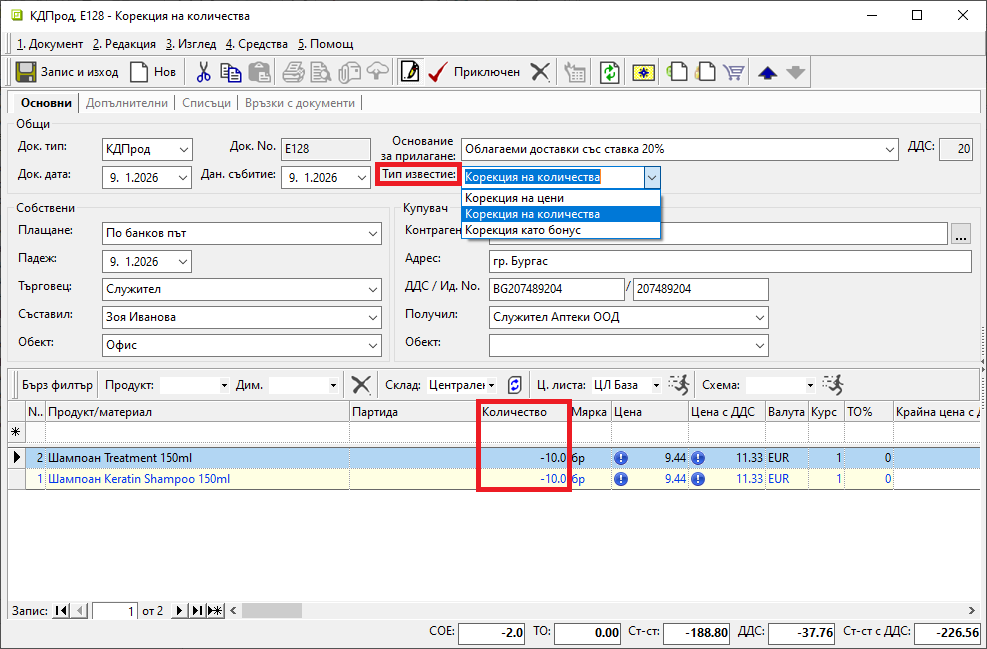
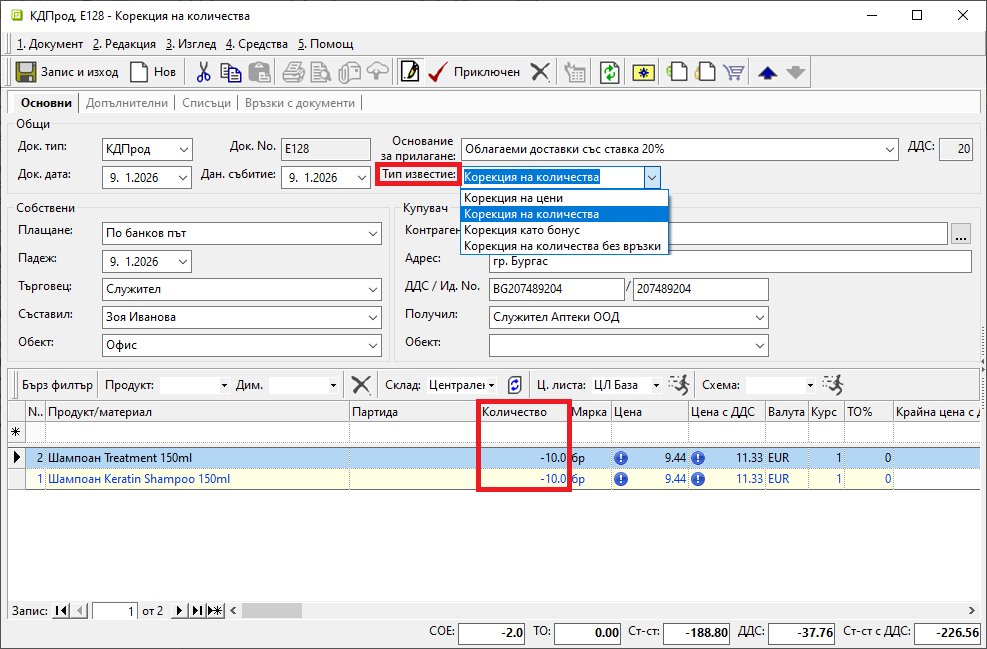
Редактиране - Кредитни док. (частично)

Changed region(s): [[0.4559, 0.2465, 0.6991, 0.4006]]

diff --git a/guide/erp/002-docs/001-trade-system/001-orders-sales-purchase-documents/007-credit-note.md b/guide/erp/002-docs/001-trade-system/001-orders-sales-purchase-documents/007-credit-note.md
@@ -10,53 +10,76 @@
 
 ## **Въведение**
 
-Системата поддържа лесна обработка на кредитни документи при връщане на стока, намаление на цени и бонуси за натрупан оборот.  
+Системата поддържа лесна обработка на кредитни документи при връщане на стока, намаление на цени или други корекции.  
 
 > Процедурата по регистриране на кредитни документи е аналогична за покупки и продажби.  
 
-Различните причини за създаване на документ за корекция се указват чрез тип на известието.  
-При кредитните документи от тип *Корекция на цени* и *Корекция на количества* се изисква връзка с вече издадена продажба/ фактура. Системата разполага с инструмент за изграждане на такава. Чрез него се свързват вътрешнофирмените документи **Продажба**-*Документ за продажба* и **КДПрод**-*Кредитен документ за продажба*. На същия принцип се създава връзката и на данъчните документи **Фактура**-*Фактура за продажба* с **КИПрод**-*Кредитно известие за продажба*.  
+Различните причини за създаване на документ за корекция се указват чрез реквизит **Тип известие**.  
+При типове *Корекция на цени* и *Корекция на количества* се изисква всеки ред на кредитния документ да бъде изцяло разпределен във връзки с продажби/покупки. Системата разполага с инструмент за създаване на връзките. Чрез него се свързват вътрешнофирмените документи:  
+- **Продажба**-*Документ за продажба* с **КДПрод**-*Кредитен документ за продажба*;  
+- **Покупка**-*Документ за покупка* с **КДПок**-*Кредитен документ за покупка*.  
+    
+На следващ етап се създават и връзките между данъчните документи:  
+- **Фактура**-*Фактура за продажба* с **КИПрод**-*Кредитно известие за продажба*;  
+- **ФПок**-*Фактура за покупка* с **КИПок**-*Кредитно известие за покупка*;    
 
-При тип документ [*Корекция като бонус*](../../../005-how-to/002-correction-doc.md#кд-без-връзка-с-продажба) връзка с предхождаща го продажба/фактура не се изисква. Този тип корекции се въвеждат ръчно.  
+При тип документ [*Корекция като бонус*](../../../005-how-to/002-correction-doc.md#кд-без-връзка-с-продажба) не се допускат връзки с редове на свързани документи. Такива корекции се въвеждат ръчно без генерация.  
+
+> В **Документи за продажба** е реализиран и четвърти тип коригиращ документ - *Корекция на количества без връзки*. Създава се ръчно при връщане на стока от клиент без обвързване с конкретни редове на продажба.  
 
 ## **Нов кредитен документ**
 
-**1. Създаване**
+**1. Създаване**  
 
-Кредитен документ за продажба с корекция на цени/количества се създава от **Търговска система » Документи за продажба**.  
-С десен клик върху списъка и опция **Нов документ** се отваря празна форма за въвеждане на данни.  
+Документите за корекция по продажба се създават от **Търговска система » Документи за продажба**.  
+Получените кредитни документи за покупка се въвеждат в **Търговска система » Документи за покупка**.  
 
-**2. Попълване на реквизити**
+- *Корекция като бонус* и *Корекция на количества без връзки*  
 
-От меню **Средства** се избира **Генериране на кредитен документ/известие**. Това отваря форма за избор **Редове на документи за продажба**.  
+За тези типове без насрещни свързани продажби (покупки) се създава **Нов документ**. Реквизитите в него се попълват изцяло ръчно.  
 
-В списъка се избира продажба, за която се отнася корекцията. Могат да бъдат маркирани един или няколко документа.  
-Ако търсените документи не се визуализират в списъка, се променят параметрите в основния филтър и/или в *Бърз филтър*.     
+- *Корекция на цени* и *Корекция на количества*  
+
+Опцията **Генериране на кредитен документ/известие** може да бъде стартирана чрез десен клик върху списъка с документи и опция **Други средства**.  
+Генерацията е достъпна също в **Нов документ** от меню **Средства**.  
+
+И в двата случая се отваря форма за избор на документи, за които се отнася корекцията. В списъка могат да се маркират един или няколко записа.  
+
+> Ако търсените документи не се визуализират в списъка, се променят параметрите в основния филтър и/или в *Бърз филтър*.     
+
 С бутон **Напред** се преминава към следваща стъпка.  
+
+```{tip}
+Ако генерацията се стартира от списъка, може първо да се маркират документите, за които се отнася корекцията. С това директно се отваря формата за избор на редове. 
+```
 
 ![](907-credit-note1.png){ class=align-center w=15cm }
 
-Системата извежда съдържанието на избраните продажби. От списъка се маркират продуктите, за които се отнася корекцията.  
+Системата извежда съдържанието на избраните документи. В списъка се маркират продуктите, за които се отнася корекцията.  
 Генерацията се потвърждава с бутон **Избор**.  
+Отваря се форма с автоматично попълнени реквизити за вътрешнофирмен документ **КДПрод** (**КДПок**).   
 
 ![](907-credit-note2.png){ class=align-center w=15cm }
 
-Отваря се форма с вътрешнофирмен документ **КДПрод**. Реквизитите в нея са автоматично попълнени.  
 
-- **Док. тип** – По подразбиране в полето е избран тип **КДПрод**-*Кредитен документ за продажба*.  
+**2. Попълване на реквизити**
 
-- **Док. номер** – При валидиране на документа системата ще обзаведе полето с пореден номер според избраните обект и тип документ.  
+- **Док. тип** – По подразбиране в полето е избран тип **КДПрод**-*Кредитен документ за продажба* (**КДПок**-*Кредитен документ за покупка*).  
+
+- **Док. номер** – При валидиране на **Продажба** системата ще обзаведе полето с пореден номер според избраните обект и тип документ.  
+При въвеждане на **Покупка** в полето се попълва номер на документа от доставчик.  
 
 - **Док. дата** – В полето се указва дата на кредитния документ.  
 По подразбиране системата предлага текуща дата.  
 
-- **Основание на прилагане** – Полето се попълва с основанието за прилагане от свързаната продажба.  
+- **Основание на прилагане** – Полето се попълва с основанието за прилагане от свързан документ.  
 
 - **Тип известие** - От падащия списък в полето се избира тип на корекцията.  
 Типовете са системно заложени:  
     - *Корекция на количества* се използва за връщане на продукти.  
     - *Корекция на цени* се използва при намаление в цената за един или няколко продукта.  
     - *Корекция като бонус* се създава при специфични условия.   
+    - *Корекция на количества без връзки* се използва при върната стока от клиент по неуточнени продажби.   
 
 ![](907-credit-note3.png){ class=align-center w=15cm }
 
@@ -70,7 +93,8 @@
 
 **3. Приключване**
 
-Документът се валидира от бутон [**Приключен**] в лентата с инструменти. Отваря се форма **Свързани документи**. Чрез нея могат да бъдат създадени следните:   
+Документът се валидира от бутон [**Приключен**] в лентата с инструменти.  
+Отваря се форма **Свързани документи**. Чрез нея могат да бъдат създадени следните:   
 
 - **Заприходяване** (склад) - Опцията се маркира при **Тип известие:** *Корекция на количества*. Чрез нея фактически върнатите количества се добавят към наличността на избрания склад.   
 Системата създава разходен складов документ с отрицателен знак.  
@@ -88,12 +112,12 @@
   Когато липсва отметка, документът се генерира в състояние на редакция.  
   - *Запазване* - Опцията указва генериране на складов документ в редакция с резервиране на продуктите в избрания склад.  
 
-- **Депозит от** (склад) - Опцията се маркира при наличие на амбалаж при връщане на продукти и материали.  
+- **Депозит** (склад) - Опцията се маркира при наличие на амбалаж при връщане на продукти и материали.  
     - *За дата* - Избира се дата, която ще се попълни като **Док. дата** в депозитната разписка.  
     - *Приключване* - При поставена отметка депозитната разписка се генерира и приключва автоматично.  
     Когато няма отметка, свързаният документ се генерира в състояние на редакция.  
 
-- **Плащане в** (каса) – Чрез опцията се указва каса и се потвърждава създаване на касов ордер. Използва се, когато има връщане в брой, с карта или подобно (при определени [настройки](../../../005-how-to/018-card-payments.md)).  
+- **Плащане** (каса) – Чрез опцията се указва каса и се потвърждава създаване на касов ордер. Използва се, когато има връщане в брой, с карта или подобно (при определени [настройки](../../../005-how-to/018-card-payments.md)).  
 Опцията е автоматично изключена при плащане по договор или банков път.   
     - *Сума* - В полето се записва фактически върната сума.  
     - *Основание* - От падащия списък се избира основание за плащане, което се попълва в касовия документ.  

diff --git a/guide/erp/001-ref/001-nomenclatures/012-cost-centers.md b/guide/erp/001-ref/001-nomenclatures/012-cost-centers.md
@@ -37,7 +37,7 @@
 ## **Реквизити**
  
    - **Център на себестойност** - показва настройките на центъра във формат **Код** – **Име**;  
-   - **Код** – в полето се попълва код в цифри, букви и/или други знаци;  
+   - **Код** – в полето се попълва свободен код, който може да се редактира;  
    Системата автоматично обзавежда полето с пореден номер, който може да се редактира. Кодът на подчинения център започва с кода на родителския център и завършва с поне една допълнителна цифра.  
    - **Име** – попълва се наименование за избрания център на себестойност;  
    - **Склад** - отваря падащ списък за избор на склад към центъра на себестойност;  
